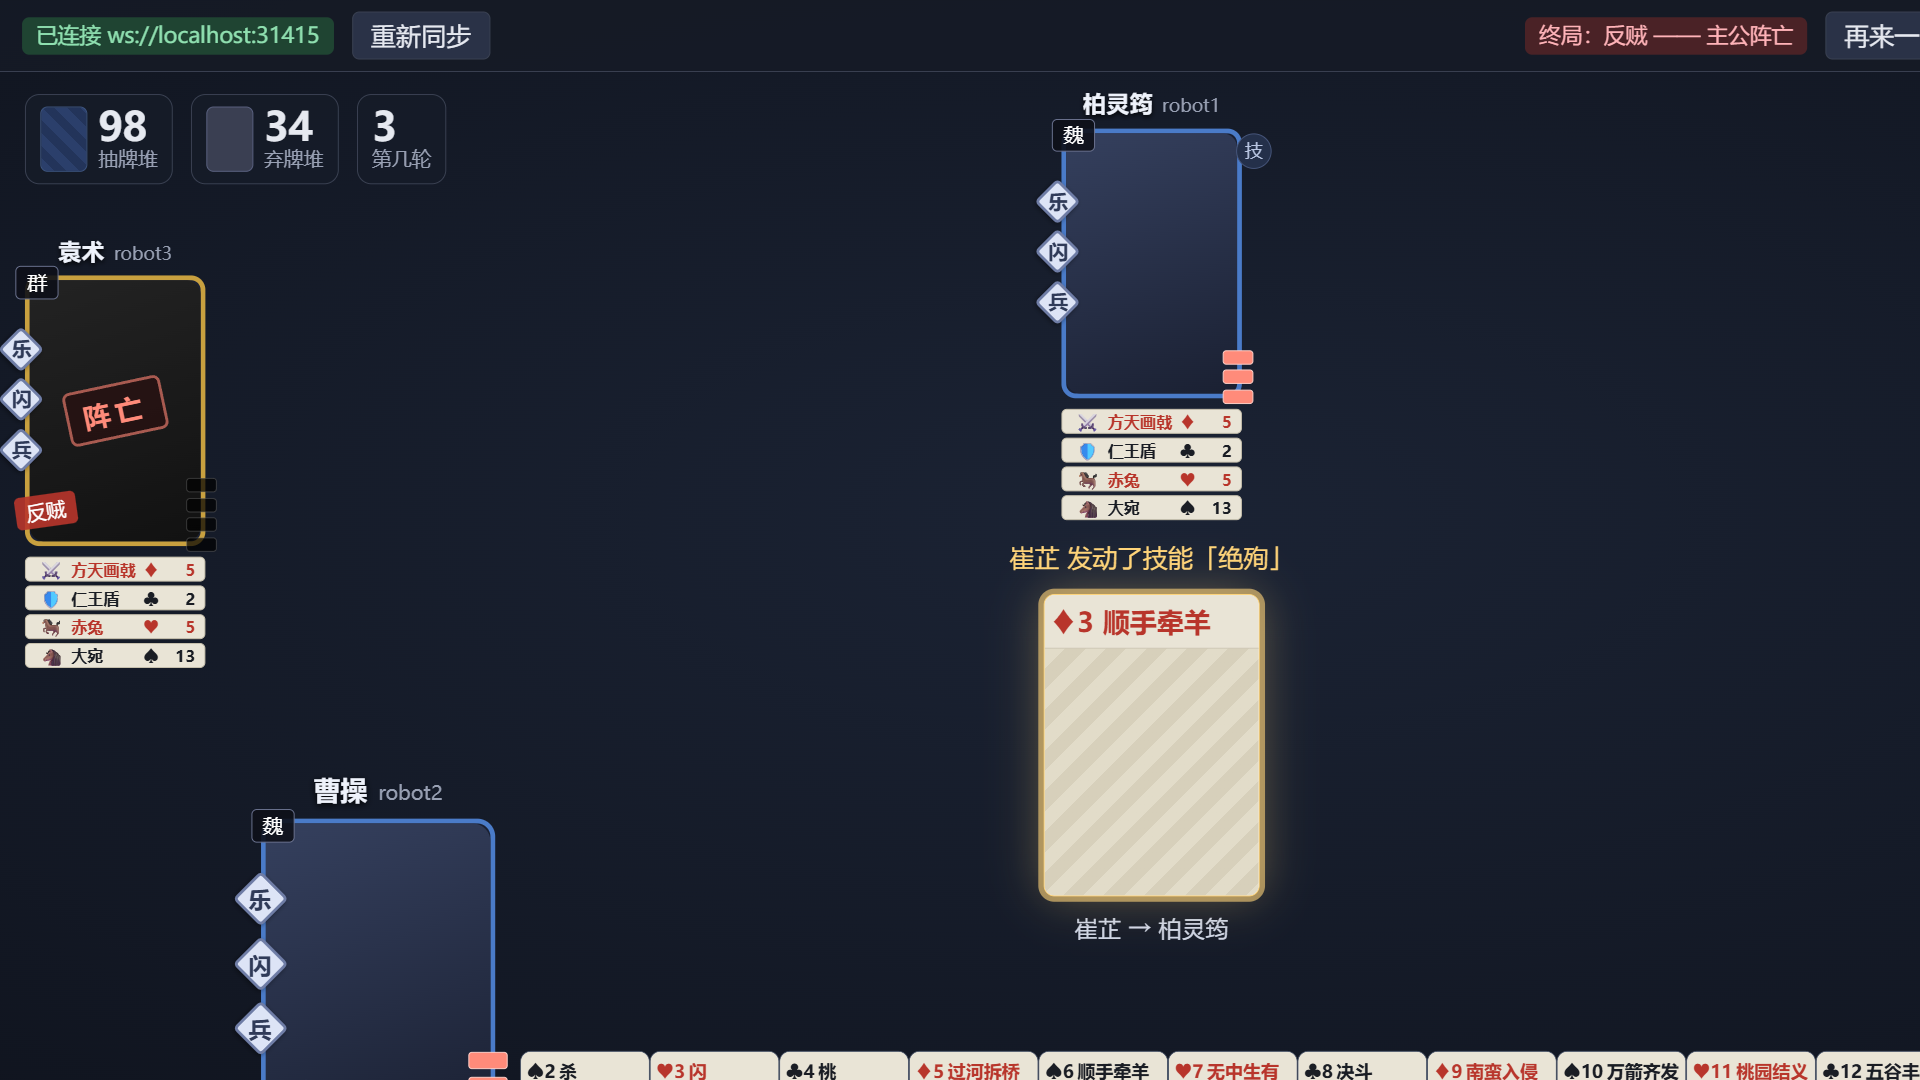
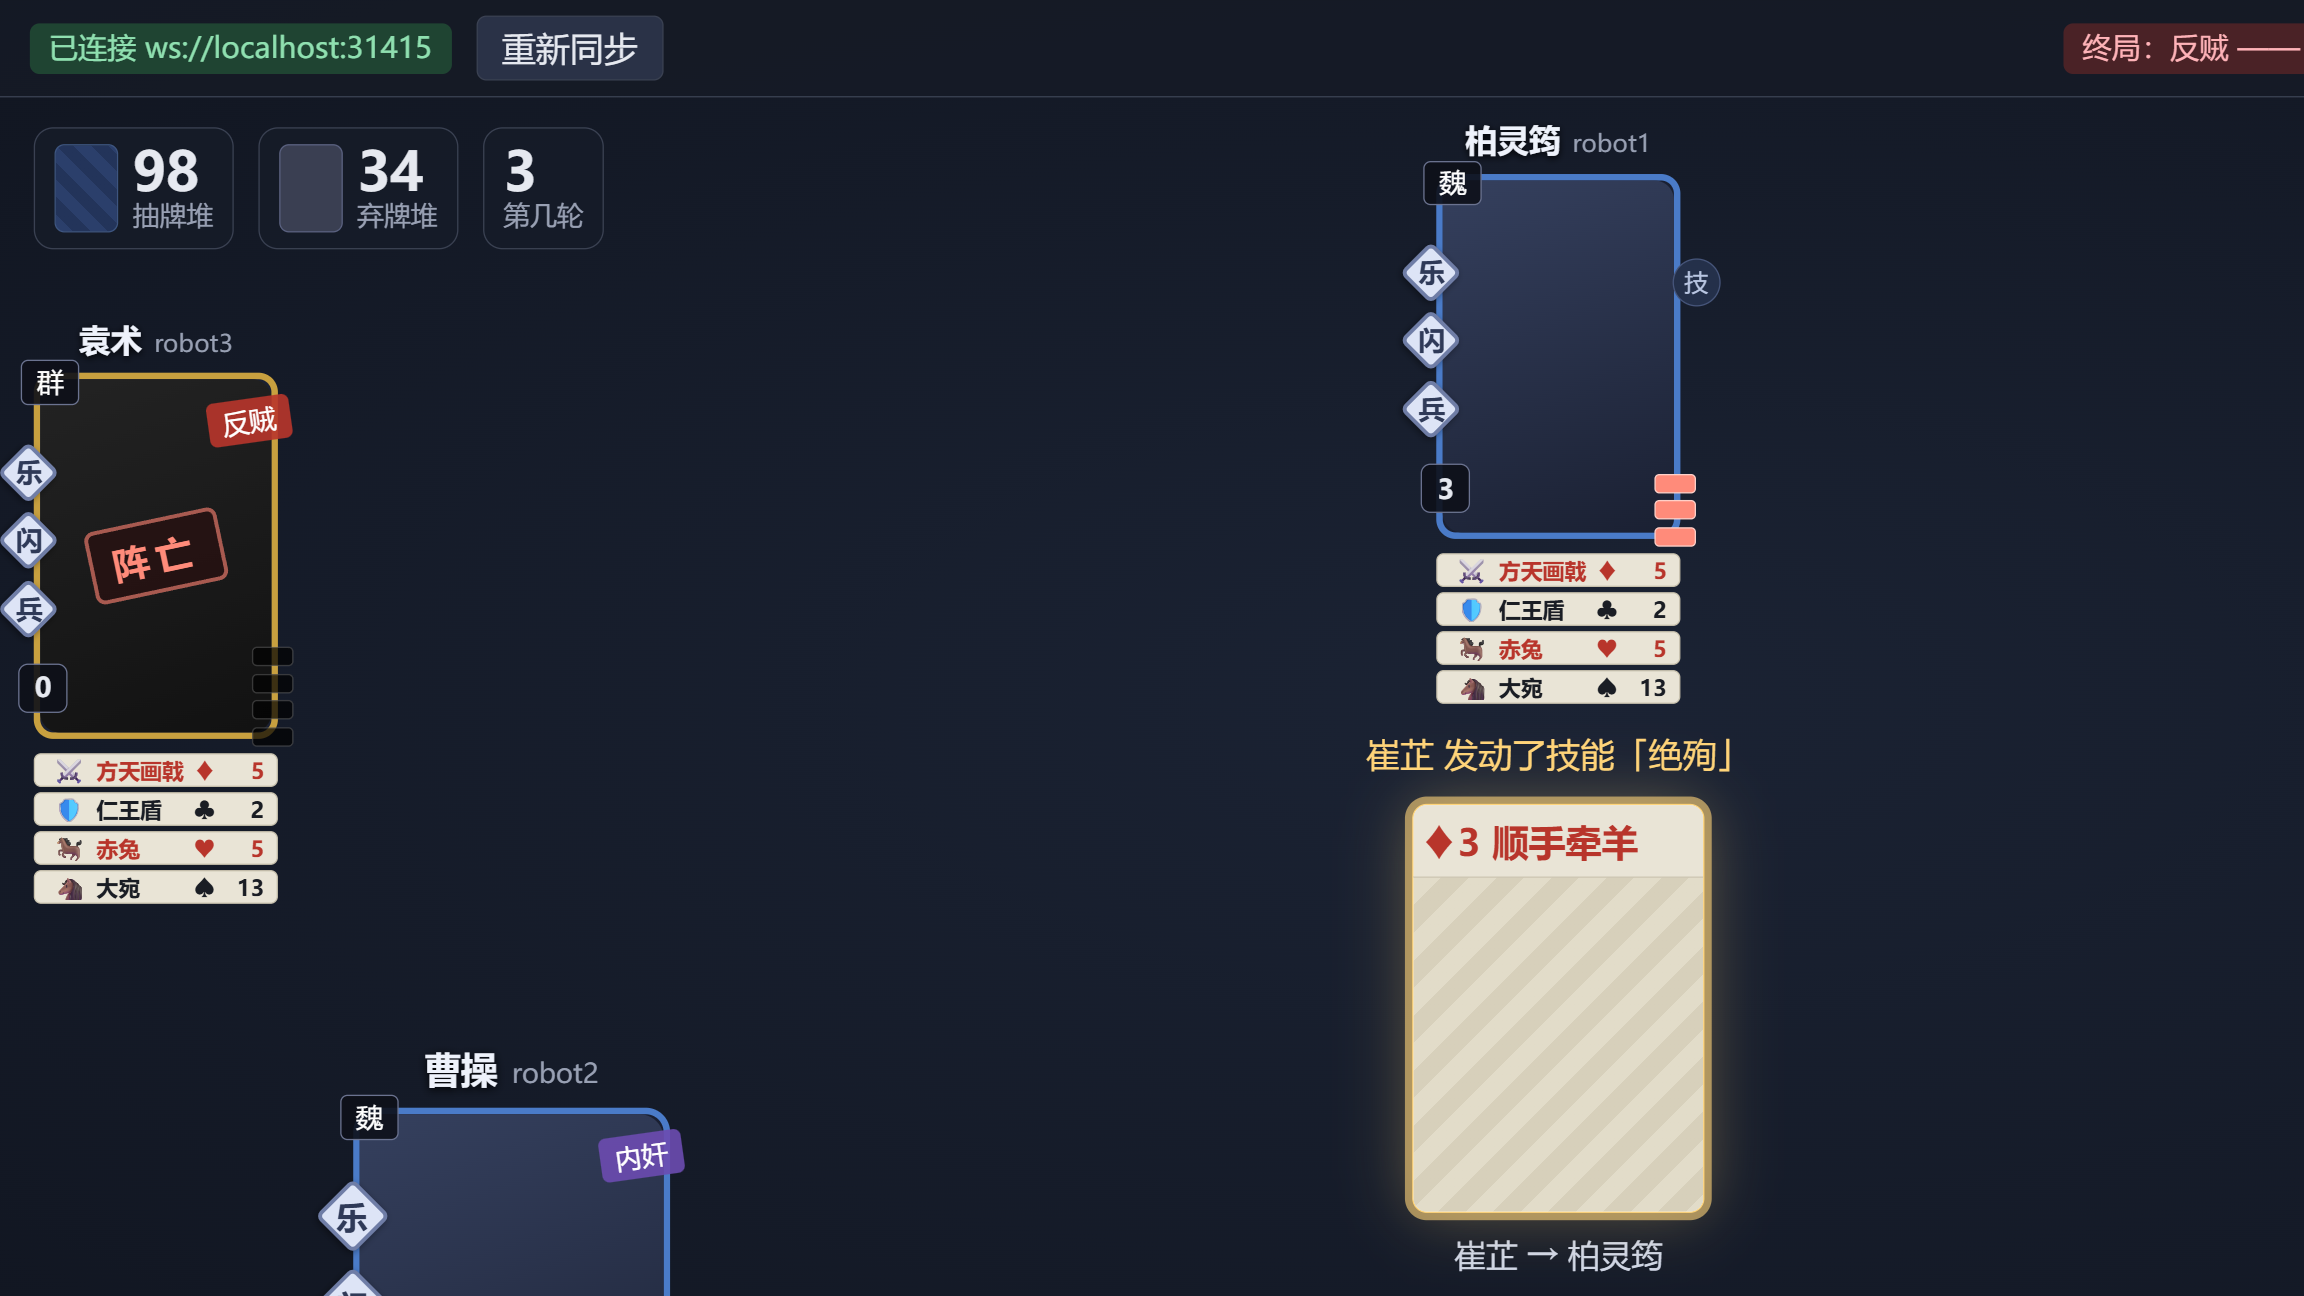
【AI】feat(client): 原型修正手牌行序与武将卡角位
- 手牌行序改成「新牌在上、旧牌在下」：渲染时把行倒序 ⇒ 旧行压住新行、新行只露标题带（原来反了：新牌在下、还压住旧牌）

- 武将卡：身份牌从头左下挪到右上；左下改显「手牌数量」（数字块，自己的跟着手牌实时变）；技能圆点下移到 top: 32px 给身份牌让位

- 两张截图按新效果重截；progress.md 的版式要点同步四角分工与行序

diff --git a/client/preview/layout3.html b/client/preview/layout3.html
@@ -99,10 +99,14 @@
     .head .pname { font-size: 10px; color: var(--muted); }
     .portrait .kingdom { position: absolute; left: -8px; top: -8px; font-size: 11px; padding: 1px 6px; border-radius: 3px;
         background: #0d1018e6; border: 1px solid #6b7390; color: #fff; }
-    .portrait .stamp { position: absolute; left: -8px; bottom: 8px; width: 34px; padding: 3px 0; text-align: center;
+    .portrait .stamp { position: absolute; right: -8px; top: 8px; width: 34px; padding: 3px 0; text-align: center;
         font-size: 11px; line-height: 1.1; color: #fff; background: #b8352be6; border-radius: 3px; transform: rotate(-8deg); }
     .portrait .stamp.loyal { background: #2f6fb5e6; }
     .portrait .stamp.spy   { background: #6b4bb0e6; }
+    /* 手牌数量：立绘左下角 */
+    .portrait .hand-count { position: absolute; left: -9px; bottom: 8px; min-width: 20px; height: 20px; padding: 0 4px;
+        display: flex; align-items: center; justify-content: center; border-radius: 4px;
+        background: #0d1018e6; border: 1px solid #6b7390; color: #e6e9f0; font-size: 11px; font-weight: 700; }
     .seat.dead .portrait .art { filter: grayscale(1) brightness(.55); }
     /* 阵亡印章盖在立绘中央，不遮身份牌 */
     .portrait .fallen { position: absolute; left: 50%; top: 50%; transform: translate(-50%, -50%) rotate(-12deg);
@@ -132,7 +136,7 @@
         background: #dde4f6; border: 2px solid #6f7da6; box-shadow: 0 1px 3px #0006;
         display: flex; align-items: center; justify-content: center; }
     .judge span { transform: rotate(-45deg); font-size: 11px; font-weight: 700; color: #2f3a58; }
-    .seat .side { position: absolute; left: calc(var(--portrait-w) - 6px); top: 0; display: flex; flex-direction: column; gap: 4px; }
+    .seat .side { position: absolute; left: calc(var(--portrait-w) - 6px); top: 32px; display: flex; flex-direction: column; gap: 4px; }
     .seat .ico { width: 20px; height: 20px; border-radius: 50%; background: #24304a; border: 1px solid #46557a;
         display: flex; align-items: center; justify-content: center; font-size: 10px; color: #b9c6e2; }
 
@@ -147,6 +151,7 @@
     #mePortrait .pips .pip { width: 22px; height: 10px; }
     #mePortrait .judge { width: 22px; height: 22px; margin: 7px 0; }
     #mePortrait .judge span { font-size: 13px; }
+    #mePortrait .hand-count { left: -11px; bottom: 8px; min-width: 24px; height: 24px; font-size: 13px; }
     #meEquips { margin-top: 6px; display: flex; flex-direction: column; align-items: center; gap: 3px; }
     #meEquips .equip { min-width: 130px; height: 16px; font-size: 10px; }
 
@@ -205,6 +210,7 @@
                     <div class="judge-col" id="meJudges"></div>
                     <div class="pips" id="mePips"></div>
                     <div class="stamp spy">内奸</div>
+                    <div class="hand-count" id="meHandCount">0</div>
                 </div>
                 <div id="meEquips"></div>
             </div>
@@ -256,15 +262,16 @@
 
     document.getElementById('playedWrap').innerHTML = cardHtml('顺手牵羊', '♦', 3, 'big glow');
 
-    // 手牌：每行 12 张；超出的往下叠（被压住的那行只露出标题带）
+    // 手牌：每行 12 张。行序 = 最新的在上、旧的在下；旧行压住新行 ⇒ 新行只露标题带
     const PER_ROW = 12;
     function renderHand(count) {
         const hand = document.getElementById('meHand');
+        document.getElementById('meHandCount').textContent = String(count);
         const rows = [];
         for (let i = 0; i < count; i += PER_ROW) {
             rows.push(Math.min(PER_ROW, count - i));
         }
-        hand.innerHTML = rows.map((n, r) => `<div class="row">${
+        hand.innerHTML = rows.map((n, r) => ({ n, r })).reverse().map(({ n, r }) => `<div class="row">${
             Array.from({ length: n }, (_, i) => {
                 const k = (r * PER_ROW + i) % NAMES.length;
                 return cardHtml(NAMES[k], SUITS[k % 4], ((k + 1) % 13) + 1);
@@ -319,6 +326,7 @@
                 <div class="pips">${pipsHtml(opt.hp, opt.max)}</div>
                 ${opt.identity ? `<div class="stamp ${stampCls}">${opt.identity}</div>` : ''}
                 ${opt.dead ? '<div class="fallen">阵亡</div>' : ''}
+                <div class="hand-count">${opt.hand ?? 0}</div>
                 <div class="side">${(opt.marks ?? []).map((m) => `<div class="ico">${m}</div>`).join('')}</div>
             </div>
             <div class="equips">${equipHtml(opt.equips ?? [])}</div>
@@ -326,28 +334,28 @@
     }
 
     const FOUR = [
-        { hero: '柏灵筠', name: 'robot1', kingdom: 'wei', kingdomLabel: '魏', hp: 3, max: 3, marks: ['技'],
+        { hero: '柏灵筠', name: 'robot1', kingdom: 'wei', kingdomLabel: '魏', hp: 3, max: 3, hand: 3, marks: ['技'],
           equips: FULL_EQUIPS, judges: FULL_JUDGES, left: 590, top: 48 },
-        { hero: '袁术', name: 'robot3', kingdom: 'qun', kingdomLabel: '群', hp: 0, max: 4, dead: true, identity: '反贼',
+        { hero: '袁术', name: 'robot3', kingdom: 'qun', kingdomLabel: '群', hp: 0, max: 4, hand: 0, dead: true, identity: '反贼',
           equips: FULL_EQUIPS, judges: FULL_JUDGES, left: 14, top: 130 },
-        { hero: '界刘备', name: 'robot4', kingdom: 'shu', kingdomLabel: '蜀', hp: 2, max: 4, identity: '主公', marks: ['技', '技'],
+        { hero: '界刘备', name: 'robot4', kingdom: 'shu', kingdomLabel: '蜀', hp: 2, max: 4, hand: 5, identity: '主公', marks: ['技', '技'],
           equips: FULL_EQUIPS, judges: FULL_JUDGES, left: 1160, top: 130 },
     ];
 
     const EIGHT = [
-        { hero: '柏灵筠', name: 'robot1', kingdom: 'wei', kingdomLabel: '魏', hp: 3, max: 3, marks: ['技'],
+        { hero: '柏灵筠', name: 'robot1', kingdom: 'wei', kingdomLabel: '魏', hp: 3, max: 3, hand: 3, marks: ['技'],
           equips: FULL_EQUIPS, judges: FULL_JUDGES, left: 340, top: 48 },
-        { hero: '孟获', name: 'robot5', kingdom: 'qun', kingdomLabel: '群', hp: 0, max: 4, dead: true, identity: '内奸',
+        { hero: '孟获', name: 'robot5', kingdom: 'qun', kingdomLabel: '群', hp: 0, max: 4, hand: 0, dead: true, identity: '内奸',
           equips: FULL_EQUIPS, judges: FULL_JUDGES, left: 590, top: 48 },
-        { hero: '周瑜', name: 'robot6', kingdom: 'wu', kingdomLabel: '吴', hp: 3, max: 3,
+        { hero: '周瑜', name: 'robot6', kingdom: 'wu', kingdomLabel: '吴', hp: 3, max: 3, hand: 4,
           equips: FULL_EQUIPS, judges: FULL_JUDGES, left: 840, top: 48 },
-        { hero: '袁术', name: 'robot3', kingdom: 'qun', kingdomLabel: '群', hp: 1, max: 4, identity: '反贼',
+        { hero: '袁术', name: 'robot3', kingdom: 'qun', kingdomLabel: '群', hp: 1, max: 4, hand: 2, identity: '反贼',
           equips: FULL_EQUIPS, judges: FULL_JUDGES, left: 94, top: 110 },
-        { hero: '华佗', name: 'robot7', kingdom: 'qun', kingdomLabel: '群', hp: 3, max: 3,
+        { hero: '华佗', name: 'robot7', kingdom: 'qun', kingdomLabel: '群', hp: 3, max: 3, hand: 6,
           equips: FULL_EQUIPS, judges: FULL_JUDGES, left: 14, top: 380 },
-        { hero: '界刘备', name: 'robot4', kingdom: 'shu', kingdomLabel: '蜀', hp: 2, max: 4, identity: '主公', marks: ['技'],
+        { hero: '界刘备', name: 'robot4', kingdom: 'shu', kingdomLabel: '蜀', hp: 2, max: 4, hand: 5, identity: '主公', marks: ['技'],
           equips: FULL_EQUIPS, judges: FULL_JUDGES, left: 1080, top: 110 },
-        { hero: '陆逊', name: 'robot8', kingdom: 'wu', kingdomLabel: '吴', hp: 3, max: 3,
+        { hero: '陆逊', name: 'robot8', kingdom: 'wu', kingdomLabel: '吴', hp: 3, max: 3, hand: 3,
           equips: FULL_EQUIPS, judges: FULL_JUDGES, left: 1160, top: 380 },
     ];
 
